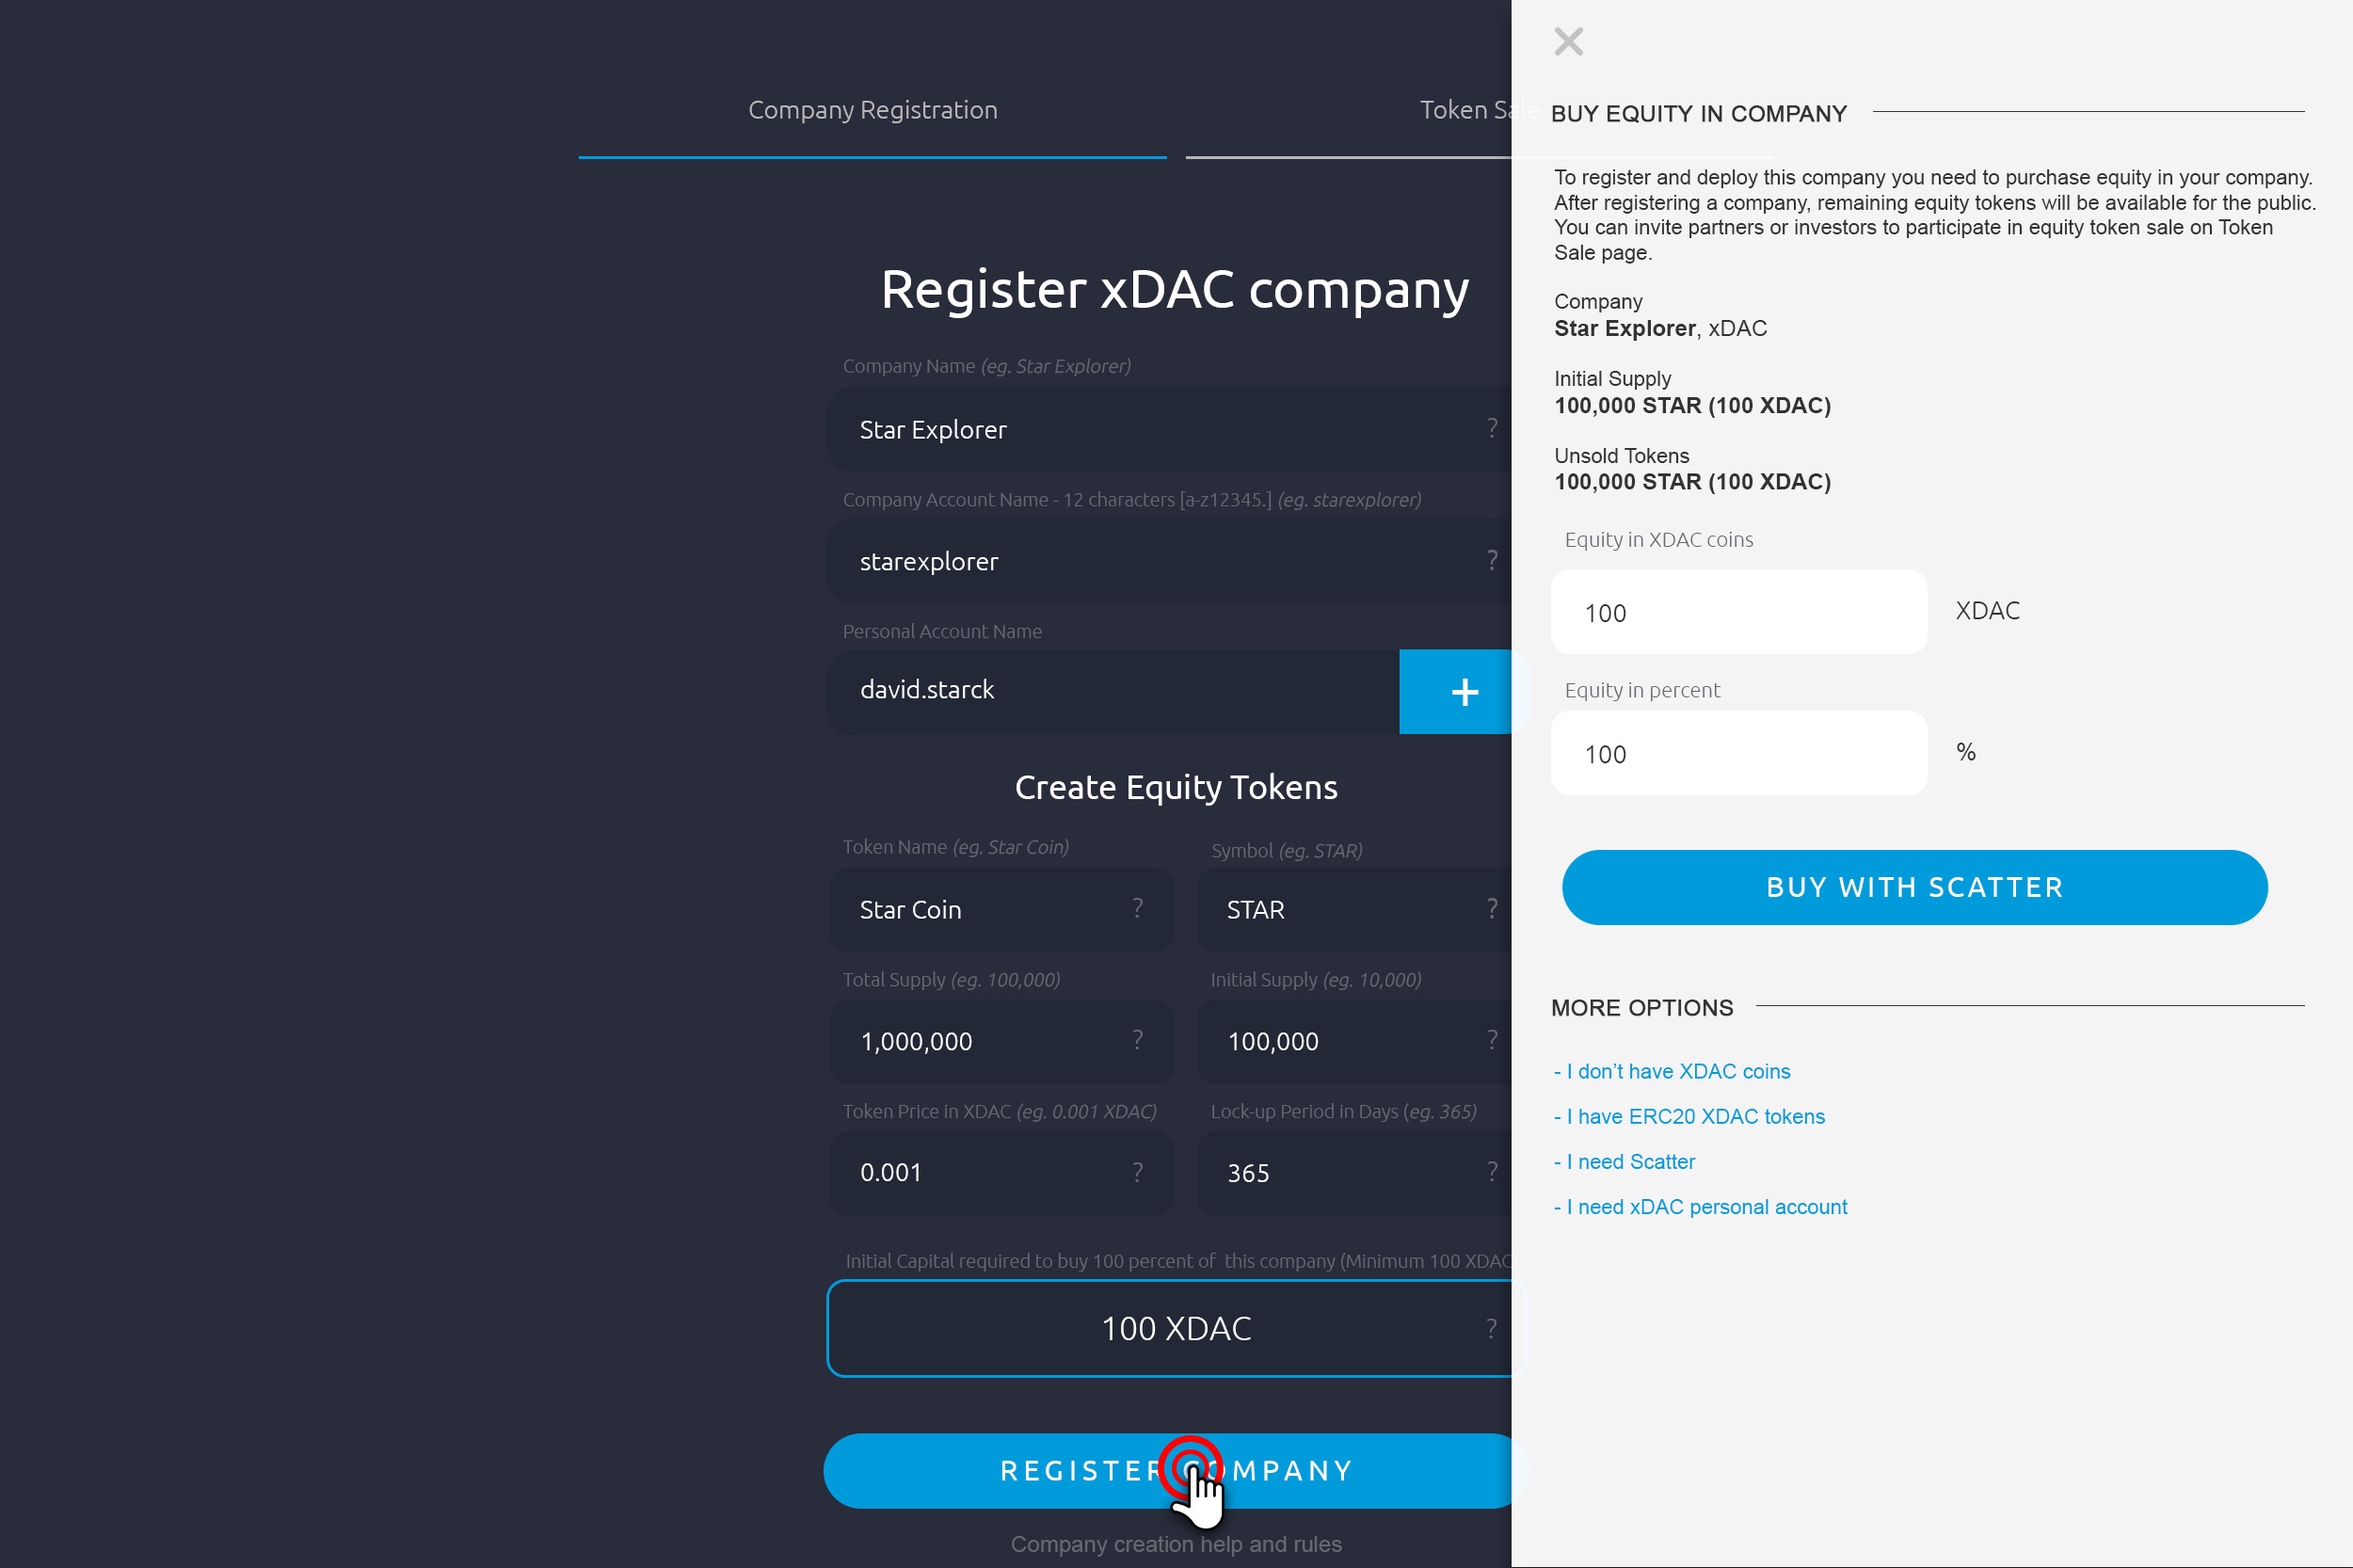
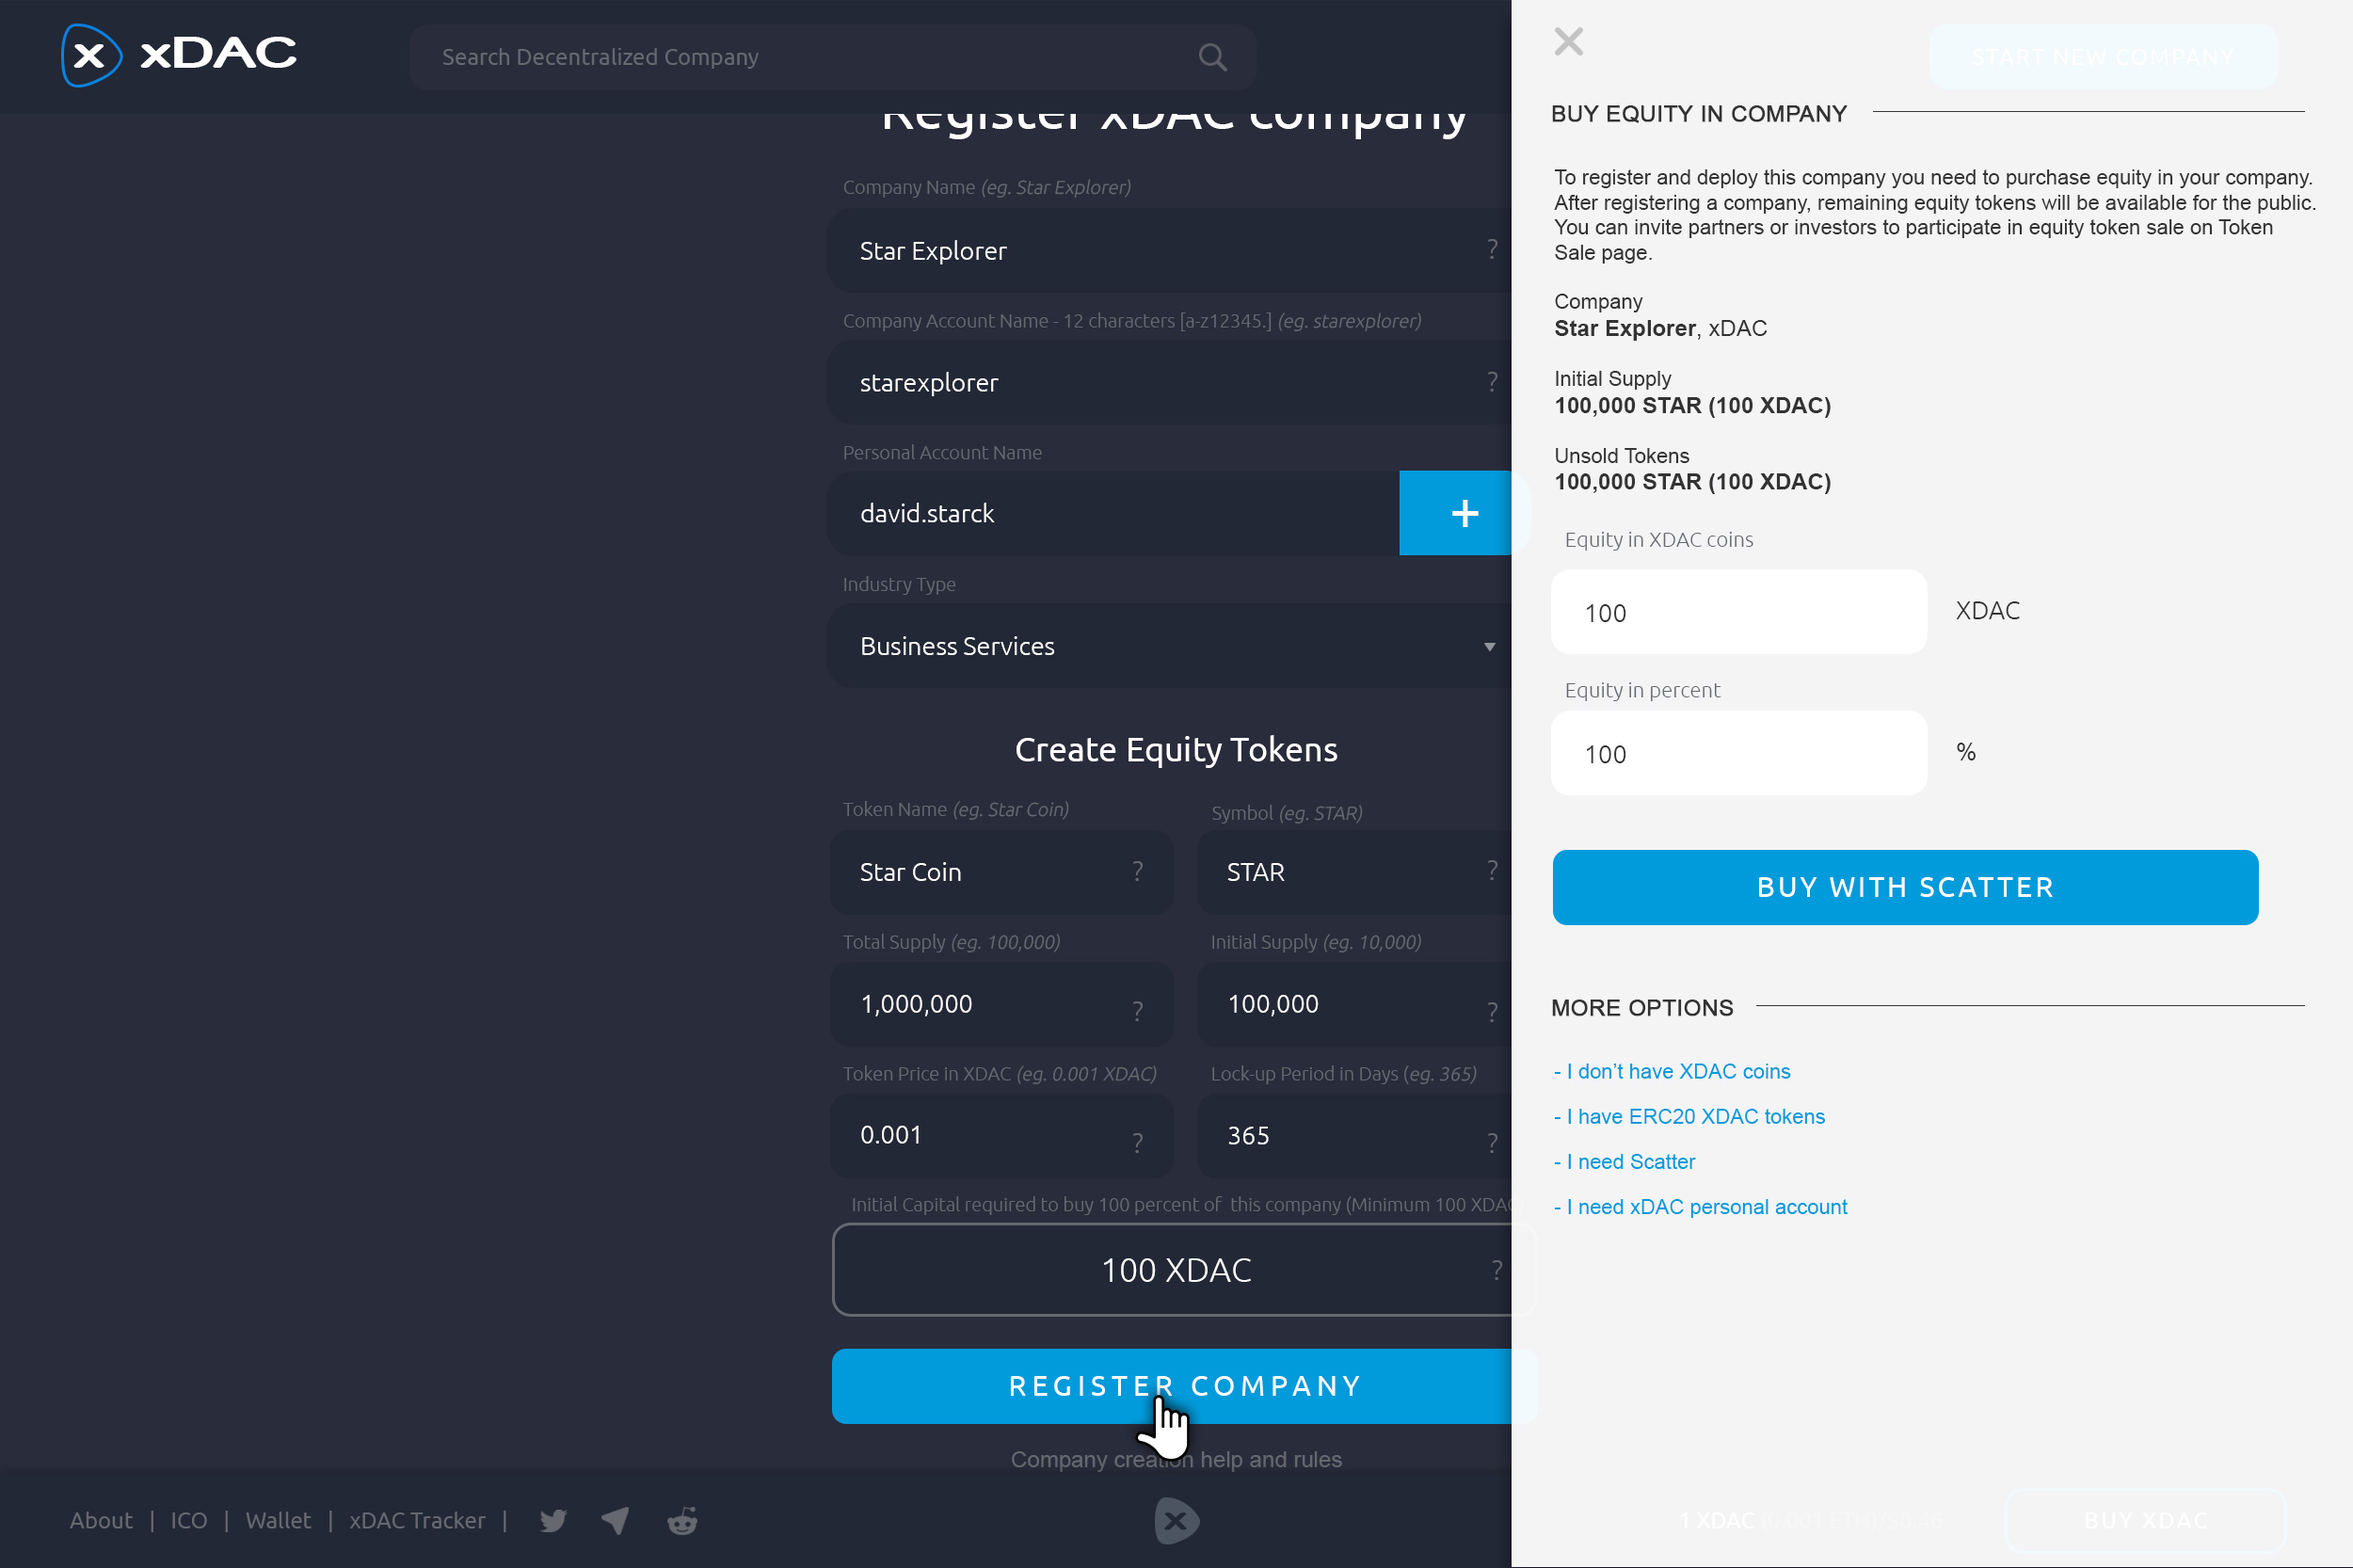
Flowchart, homepage, dashboard, UI/UX updates

diff --git a/xDAC-Functional-Specification.md b/xDAC-Functional-Specification.md
@@ -14,13 +14,29 @@ b.	business owners, customers, team members, and other interested parties in xDA
 
 c.	contractors who undertake all or parts of the development, as optional illumination of the source of and background to the specific requirements to which they are working. 
 
-# 1.	Company Registration (PR-0100)
+# xDAC Platform dApp (Alpha)
 
-## 1.1.	Architecture
+Alpha version of the xDAC platform will provide access to the homepage with a list of existing xDAC companies, registration of the new xDAC company, token sale and public profile (dashboard) of the xDAC company.
+
+## Flowchart
+
+![xDAC dApp flowchart Flowchart](/images/xDAC-dApp-flowchart.jpg)
+
+# 1. Home Page
+
+The xDAC homepage provides easy access to existing xDAC companies through the list in tile form and "search" option. The homepage offers selecting companies by token sale status (Active or Completed) of selection by company industry.
+
+Header od the page hold button Start a new company. Button Buy XDAC is placed in the footer of the page along with social media links and links to About and ICO pages or xDAC network tracker and wallet.
+
+![xDAC dApp flowchart Flowchart](/images/xDAC-homepage.jpg)
+
+# 2. Company Registration (PR-0100)
+
+## 2.1.	Architecture
 
 ![xDAC Registration Flowchart](/images/xDAC_register-comp-flowchart-v1.07.jpg)
 
-## 1.2.	Company Registration Form (Step 1)
+## 2.2.	Company Registration Form (Step 1)
 
 The user sends a request to register a new company. Registration form contains: 
 
@@ -39,7 +55,7 @@ The minimum amount of required capital is 100 XDAC, therefore initial supply or 
 
 ![xDAC Registration form](/images/xDAC-Company-registration-form.jpg)
 
-## 1.3.	Create New Personal Account (Step 2)
+## 2.3.	Create New Personal Account (Step 2)
 
 If the user doesn’t have a personal account yet, it can be created in sidebar form and deployed to the network free of charge. Sidebar form contains  
 
@@ -56,13 +72,13 @@ xDAC needs to be an owner of the account due to the further function of that wil
 
 ![xDAC New Personal Account Done](/images/xDAC-new-personal-account-done.jpg)
 
-## 1.4.	Data Verification (Step 3)
+## 2.4.	Data Verification (Step 3)
 
 The request is sent to core contract and checked for valid data and duplicates. All field must be filled out. Company name, company account name and token symbol must be unique.  If duplicates are found, we will display “whois” option to locate an existing company with identical data. Initial supply should not exceed total supply. 
 
 ![xDAC Registration form error](/images/xDAC-Company-registration-form-error.jpg) 
 
-## 1.5.	Buy Equity in Company (Step 4)
+## 2.5.	Buy Equity in Company (Step 4)
 
 After data validation, Register Company button will open the Buy Equity sidebar. The sidebar contains a form with:
 
@@ -73,7 +89,7 @@ Data are correlated. If one is changed, other changes accordingly. After specify
 
 ![xDAC Buy Equity Tokens](/images/xDAC-buy-equity.jpg) 
 
-## 1.6.	Company Submission & Core Contract (Step 5)
+## 2.6.	Company Submission & Core Contract (Step 5)
 
 Proceeds from equity purchase are transferred to the core contract with all submitted data. 
 
@@ -134,11 +150,11 @@ i_quantity | asset | 10 | Number of tokens investor holds
 i_tokens | asset | 10 | 
 i_issued | bool | 1 | Token issued TRUE or FALSE
 
-## 1.7.	Deploying Company (Step 6)
+## 2.7.	Deploying Company (Step 6)
 
 Core contract is responsible for deploying company through nodejs service to xDAC network while investment remains on core contract. Deploying process has the following steps:
 
-### 1.7.1.	Deploying company account
+### 2.7.1.	Deploying company account
 
 A new multi-sig account on the xDAC network is created with xDAC as the only owner. Permissions of created account are: 
 * xDAC (***owner***) weight 1, threshold 1 (will be removed after platform development),
@@ -153,11 +169,11 @@ A new multi-sig account on the xDAC network is created with xDAC as the only own
 
 ***publish*** authority is used for making other low-level updates, transferring funds below the threshold, hiring team members or resolving disputes. 
 
-### 1.7.2.	Creating company contract
+### 2.7.2.	Creating company contract
 
 Smart contract manages the transfer of funds between company account and liability fund. All received transactions must be distributed between the liability fund and company account based on the liability fund discount rate until the liability fund cap is reached.
 
-### 1.7.3.	Creating company database
+### 2.7.3.	Creating company database
 
 Storage contract is database storing company information and records. At company creation database has following tables:
 
@@ -222,7 +238,7 @@ contract_id | contract_name | contract_ver | contract_rdate
 
 Each company smart contracts must have a name and a version number stored in ***company_contracts*** table. Other smart contracts or dApps will interact with storage contract before each call. Storage contract will return name and version number of the most recent contract.
 
-### 1.7.4. Equity Tokens Issuance
+### 2.7.4. Equity Tokens Issuance
 
 Deploy equity token contract with parameters specified by the company founder. If the initial supply is less than the total supply, only the amount of initial token supply is issued. Remaining tokens can be issued by company owners in the later stage.
 In case tokens have a lock-up period, tokens should not be transferable until lock up period expires.
@@ -234,51 +250,51 @@ Funds on liability fund during company existence can be accessed only by dispute
 
 After a company is acquired, liquidated, or closed, a Liability Fund will be distributed between owners based on their respective stake in the company.-->
 
-# 2. Equity Tokens Sale (PR-1800) (Step 7) 
+# 3. Equity Tokens Sale (PR-1800) (Step 7) 
 
-## 2.1. Buy Equity Tokens
+## 3.1. Buy Equity Tokens
 Anyone who has access to the Token Sale page can join equity token sale. Following situations can arise:
 
-### 2.1.1. User doesn’t have Scatter
+### 3.1.1. User doesn’t have Scatter
 After clicking on Buy button Create Personal Account in the sidebar is opened. After creating an account we will prompt the user to download Scatter.
 
-### 2.1.2. User doesn’t have xDAC personal account
+### 3.1.2. User doesn’t have xDAC personal account
 After click on Buy button Create Personal Account in the sidebar is opened.
 
-### 2.1.3.	User doesn’t have XDAC coins
+### 3.1.3.	User doesn’t have XDAC coins
 Buy XDAC Coins in the sidebar is opened. 
 
-### 2.1.4.	User has ERC20 XDAC tokens
+### 3.1.4.	User has ERC20 XDAC tokens
 Swap XDAC tokens for XDAC coins in the sidebar is opened.  
 
-### 2.1.5.	User has Scatter, account and coins
+### 3.1.5.	User has Scatter, account and coins
 After investors created a personal account and fund their account with XDAC coins, they can purchase equity in the company.
 
-## 2.2.	Token Sale (Step 8)
+## 3.2.	Token Sale (Step 8)
 
 Company Token Sale is company crowdfunding option to raise funds from different investors or partners. Token sale page holds company summary information and a list of existing token holders. Anyone can access this page at xdac.co/s/< company account name > and purchase equity through Buy Equity Tokens button. This page can be shared with others via email.
 
 Following situations can arise during the token sale:
 
-### 2.2.1.	Company token sale 
+### 3.2.1.	Company token sale 
 
 The company disposition of tokens is available until all equity tokens are sold. Unsold equity tokens are available to public investors or partners.
 
 ![xDAC Buy Equity Tokens](/images/xDAC-Token-Sale-50p.jpg)
 
-### 2.2.2.	Company sold 100% of equity tokens
+### 3.2.2.	Company sold 100% of equity tokens
 
 If the company sold 100% of initial supply, Buy Equity Tokens option is no longer available. This round of token sale is closed. 
 
 ![xDAC Buy Equity Tokens](/images/xDAC-Token-Sale-100p.jpg) 
 
-### 2.2.3.	51% of equity tokens owned by one account
+### 3.2.3.	51% of equity tokens owned by one account
 
 If the company is controlled by a single account, the account owner has the authority to approve all new investments.
 
 ![xDAC Buy Equity Tokens](/images/xDAC-Token-Sale-60p.jpg) 
 
-### 2.2.4.	51% of equity tokens owned by multiple accounts
+### 3.2.4.	51% of equity tokens owned by multiple accounts
 
 Investments up to 51% are accepted without approval. As soon as the amount of sold equity tokens reaches 51% or more, authorization of new investments is required by the majority of company owners holding at least 51%.
 
@@ -298,15 +314,16 @@ After investment approval reaches 51% of votes or more, investment is accepted a
 
 Declined investments by 51% of votes or more will be refunded from core contract back to account of the investor.
 
-### 2.2.5.	Company has unsold tokens
+### 3.2.5.	Company has unsold tokens
 
 If the company sold more than 51% of equity tokens owners can decide to terminate token sale and distribute remaining tokens proportionally to investors. This means that if an investor has bought 1% of company equity tokens, he/she will receive 1% of the unsold tokens.
 
-## 2.3.	Initial Capital Release (Step 9)
+## 3.3.	Initial Capital Release (Step 9)
 
 After company contracts are deployed, nodejs will notify xDAC core and core contract will release equity funds to company contract.
 
-# 3. Public Profile (PR-0300) (Step 10)
+# 4. Company Dashboard - Public Profile (PR-0300) (Step 10)
 
 Public company profile accessible through link xdac.co/<account name>. Edit of public profile accessible with help of Scatter for permission Active. 
 
+![xDAC Company Dashboard](/images/xDAC-company-dashboard.jpg)
